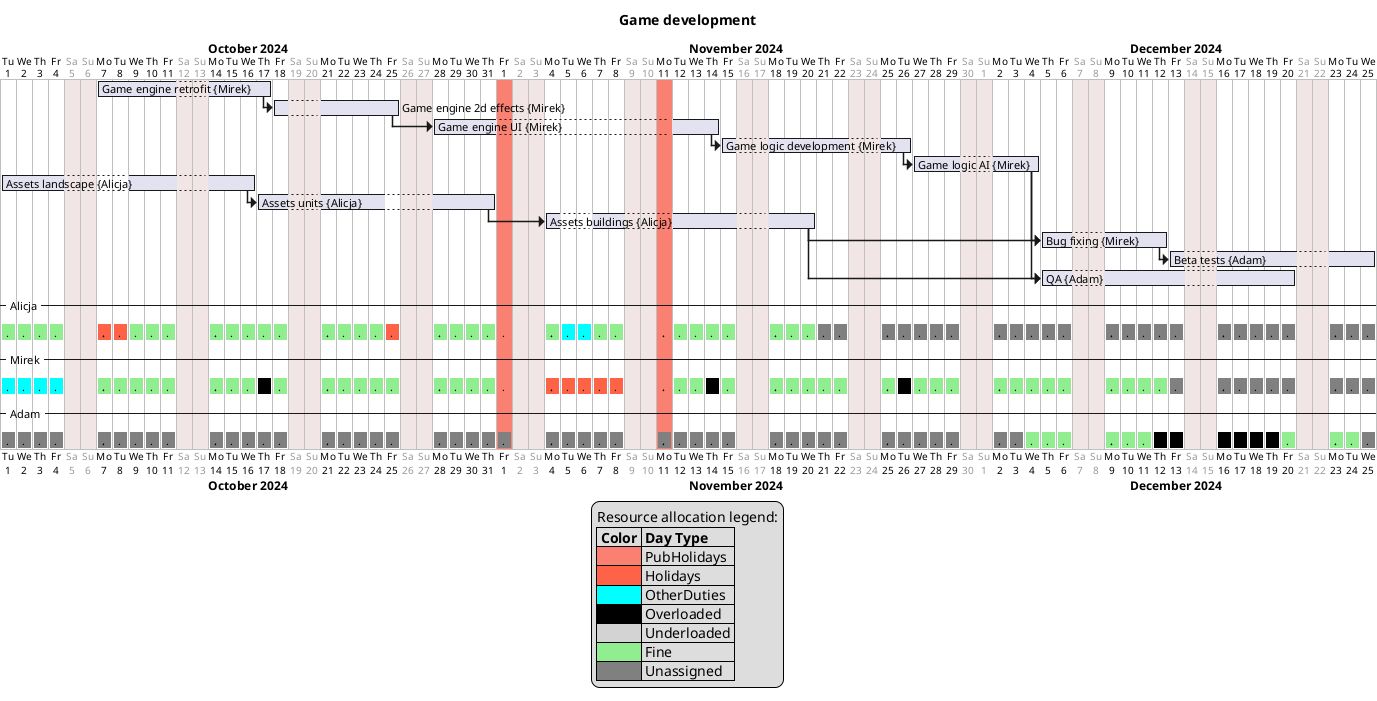
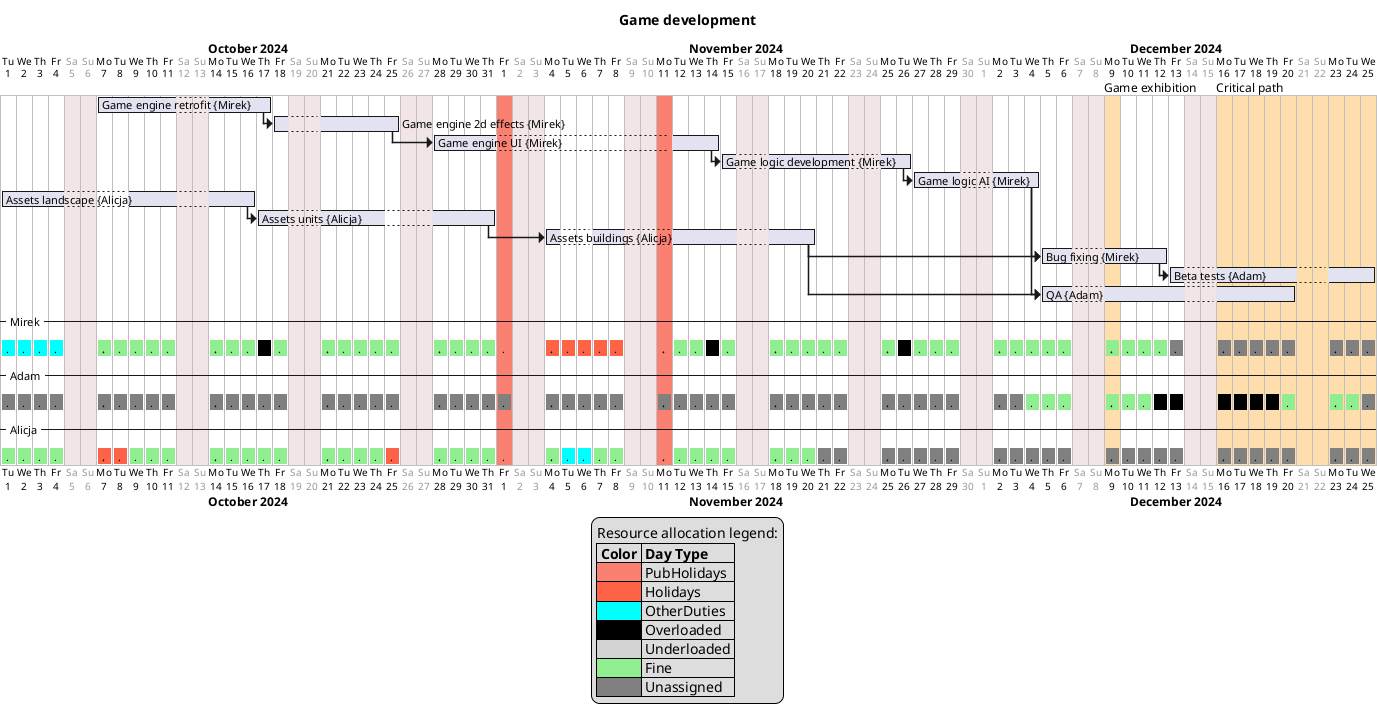
Added time markers

Changed region(s): [[0.0, 0.0599, 1.0, 0.9886]]

diff --git a/planner/src/backend_plantuml.rs b/planner/src/backend_plantuml.rs
@@ -1,3 +1,4 @@
+use crate::calendar;
 use crate::cfg;
 use crate::gantt_builder;
 use std::process::{Command, Output};
@@ -105,6 +106,27 @@ fn generate_plantuml_script(
             }
             prev = task_name.clone();
             i += 1;
+        }
+    }
+    // time markers
+    for tm in &data.time_markers {
+        for time in &tm.time {
+            let from;
+            let to;
+            match time {
+                calendar::DateObj::Date(d) => {
+                    from = d;
+                    to = d
+                }
+                calendar::DateObj::Range(f, t) => {
+                    from = f;
+                    to = t;
+                }
+            }
+            let label = &tm.label;
+            script += &format!("{from} to {to} are named [{label}]\n");
+            let c = &cfg.backend.colors.time_markers;
+            script += &format!("{from} to {to} are colored in {c}\n");
         }
     }
     // legend

diff --git a/planner/src/gantt_builder.rs b/planner/src/gantt_builder.rs
@@ -68,6 +68,7 @@ pub struct GanttData {
     pub workers_absence: HashMap<String, Vec<NaiveDate>>,
     pub public_holidays: Vec<NaiveDate>,
     pub resource_allocation: ResourceAllocation,
+    pub time_markers: Vec<project::TimeMarker>,
 }
 
 #[derive(Debug, Copy, Clone)]
@@ -322,6 +323,10 @@ pub fn process(
 
     let project_starts = proj.start_date;
     let closed_days = calendars.values().next().unwrap().closed_days.clone();
+    let time_markers = match proj.time_markers.clone() {
+        Some(v) => v,
+        None => Vec::new(),
+    };
     Ok(GanttData {
         title: proj.project_name.clone(),
         tasks,
@@ -330,6 +335,7 @@ pub fn process(
         workers_absence,
         public_holidays,
         resource_allocation,
+        time_markers,
     })
 }
 

diff --git a/planner/src/project.rs b/planner/src/project.rs
@@ -41,6 +41,13 @@ pub struct Assignment {
     pub focus_factor: Option<f64>, // Optional field for overriding focus factor
 }
 
+#[derive(Debug, Clone, Deserialize)]
+pub struct TimeMarker {
+    #[serde(deserialize_with="parse_multidate_entry")]
+    pub time: Vec<DateObj>,
+    pub label: String,
+}
+
 #[derive(Debug, Deserialize)]
 pub struct ProjectConfig {
     pub project_name: String,
@@ -49,6 +56,7 @@ pub struct ProjectConfig {
     pub team: Vec<TeamMember>,
     pub tasks: Vec<Task>,
     pub assignments: Vec<Assignment>,
+    pub time_markers: Option<Vec<TimeMarker>>,
 }
 
 impl ProjectConfig {

diff --git a/planner/src/cfg.rs b/planner/src/cfg.rs
@@ -16,6 +16,8 @@ pub struct Colors {
     pub worker_underloaded: String,
     pub worker_fine: String,
     pub worker_unassigned: String,
+
+    pub time_markers: String,
 }
 
 // Define a struct for backend settings, which contains plantuml configuration
